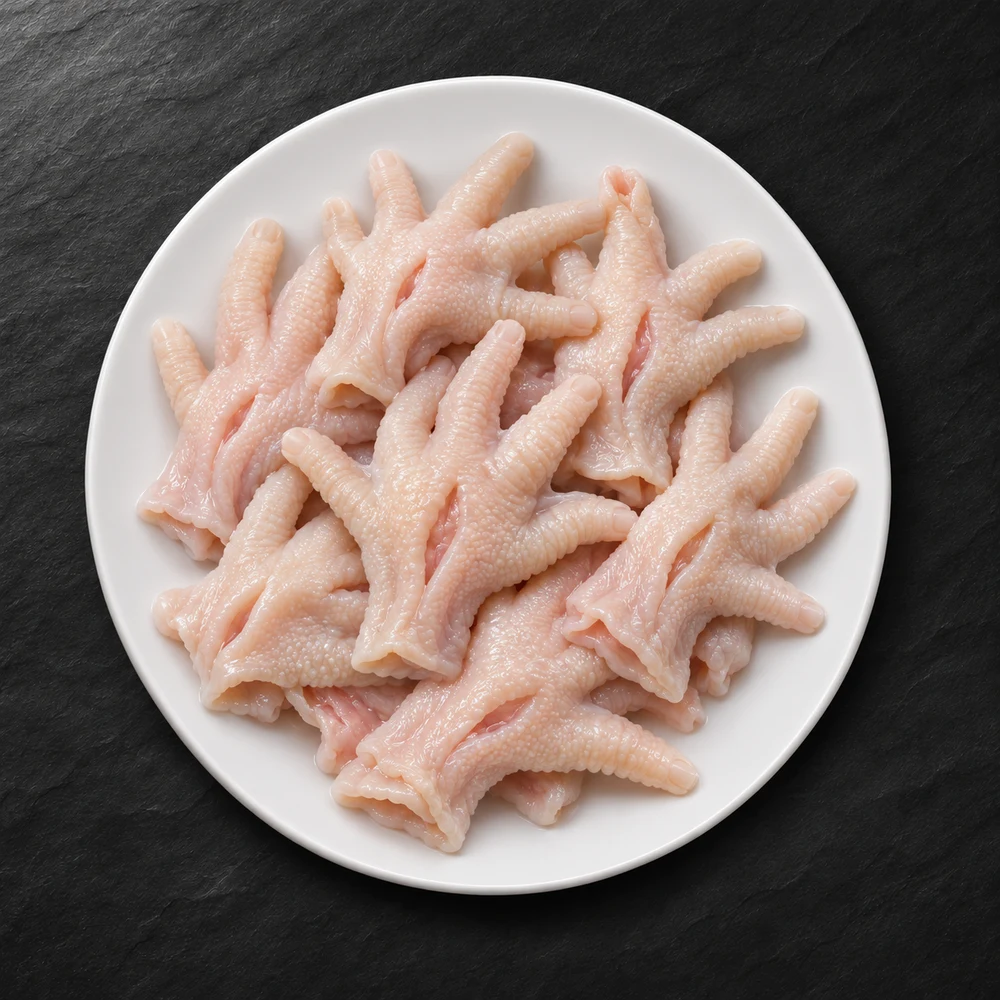
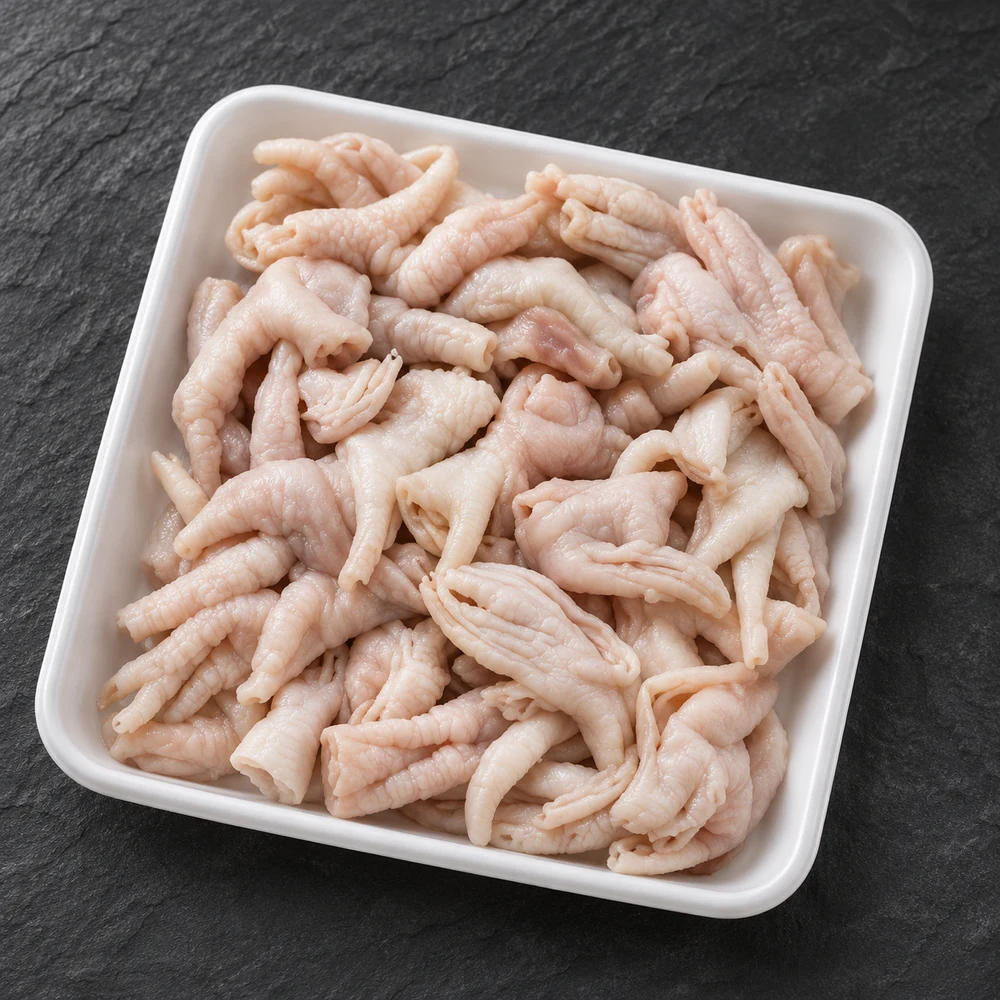
fix(catalog): refine boneless chicken feet and unify sales labels

diff --git a/fe/src/lib/products.ts b/fe/src/lib/products.ts
@@ -324,7 +324,7 @@ export const products: Product[] = [
     "Ceker Ayam Tanpa Tulang",
     "Ceker ayam tanpa tulang untuk aneka kreasi menu berbumbu. Praktis diolah menjadi sajian pedas, dimsum, maupun tumisan sesuai kebutuhan dapur Anda.",
     ["Dimsum", "Tumis", "Sajian pedas"],
-    "/images/catalog/ceker-ayam-tanpa-tulang-ai.webp",
+    "/images/catalog/ceker-ayam-tanpa-tulang-ai-v4.webp",
   ),
   seafood(
     "salmon-fillet",

diff --git a/fe/src/lib/company.ts b/fe/src/lib/company.ts
@@ -46,7 +46,7 @@ export const company = {
     },
     {
       name: "Kriss",
-      role: "Tim Sales",
+      role: "Sales",
       phone: "0813 3027 3323",
       number: "6281330273323",
     },
@@ -58,7 +58,7 @@ export const company = {
     },
     {
       name: "Imron",
-      role: "Sales Jakarta",
+      role: "Sales",
       phone: "0812 9450 6900",
       number: "6281294506900",
     },

diff --git a/fe/docs/ceker-ayam-revision-20261104.md b/fe/docs/ceker-ayam-revision-20261104.md
@@ -1,0 +1,14 @@
+# Boneless chicken feet — client reference revision
+
+The client rejected the broad flat skin-like first revision and oversized open-foot second revision, then supplied a clearer photo with a container and wooden plate of compact folded boneless feet. The latest image follows that reference: smaller irregular pieces, curled toes and a natural overlapping arrangement, with a changed camera angle and charcoal slate. This is AI-generated reference-based imagery, not a photograph of actual stock.
+
+- Tool: built-in imagegen.
+- Final asset: `public/images/catalog/ceker-ayam-tanpa-tulang-ai-v4.webp`, 1000 × 1000, quality 88.
+- The prior production URL `public/images/catalog/ceker-ayam-tanpa-tulang-ai.webp` serves identical new bytes for cached pages.
+- Product data uses the versioned asset to avoid stale image caches.
+- The uncommitted rejected v3 asset was removed; generation originals remain outside the repository.
+- The client approved this revision for publication.
+
+## Final generation prompt
+
+Use case: product-mockup. Recreate the prepared boneless chicken feet PRODUCT morphology from the provided photograph, especially the small folded pieces in the LEFT rectangular container and curled toes on the RIGHT wooden plate. Produce ONE square premium catalog photograph, not a diptych. The supplied image is the sole primary product reference: preserve the characteristic compact, slender, wrinkled, irregular, already-deboned feet. Many pieces have three short narrow toes folded together inward alongside a small collapsed foot pad, some are upside-down, some show narrow lengthwise deboning slits. These are SMALL, lean, limp folded chicken feet, not huge flat hands. Crucial: do not make broad flat triangular skin webs or fan-shaped sheets; do not arrange five large open feet on top; do not depict thick inflated fingers or overly regular repeated three-toe shapes. Each foot occupies only about 1/5 to 1/6 the tray width, with roughly 20–25 small compact feet naturally overlapping in a modest mound. Maintain pale ivory with a slight subdued pink undertone as in the reference, fine natural segmented skin texture and subtle moisture, not orange and not glossy plastic. Place the product in a plain clean shallow WHITE RECTANGULAR FOOD TRAY on dark charcoal textured slate, matching a premium raw-food catalog. Whole tray visible with margins. Camera elevated approximately 55 degrees above tabletop, front and side rim subtly visible; arrange tray diagonally by about 10 degrees. Soft diffused upper-left light, natural realistic shadows, crisp photography with honest organic imperfections. NO bones, NO toenails, NO plastic wrap, NO garnish, NO utensils, NO text, NO logo, NO watermark, NO other containers, NO white tabletop. Opaque background. Use a new natural arrangement faithful to the reference, not the anatomy of a whole unde-boned chicken foot.
